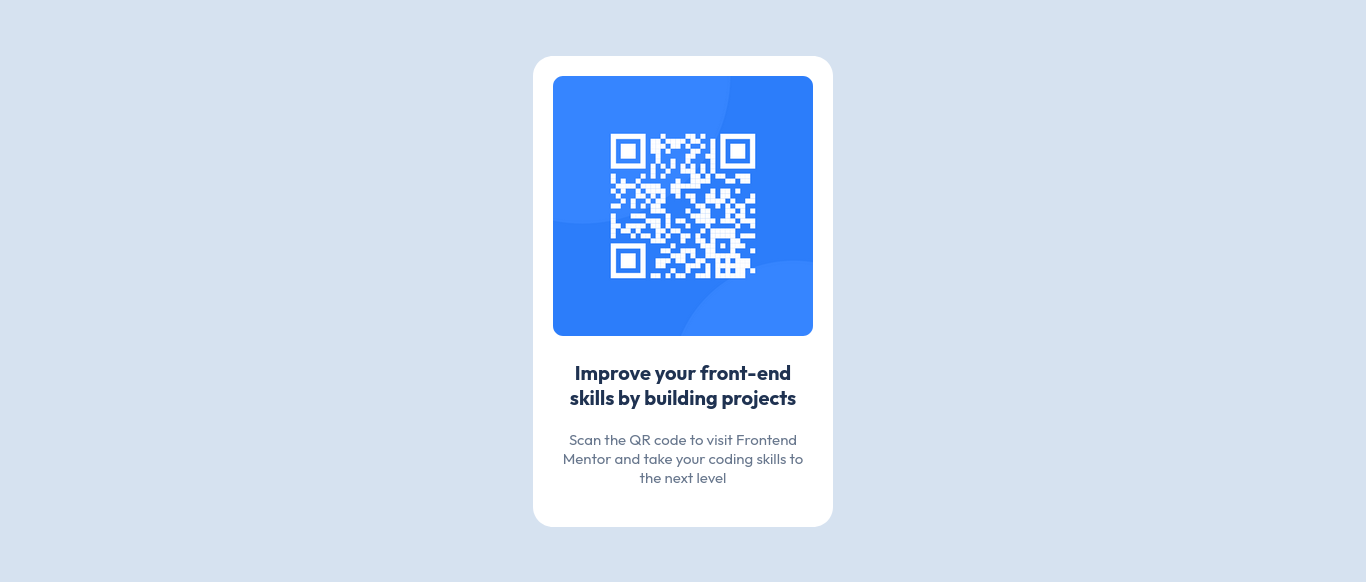
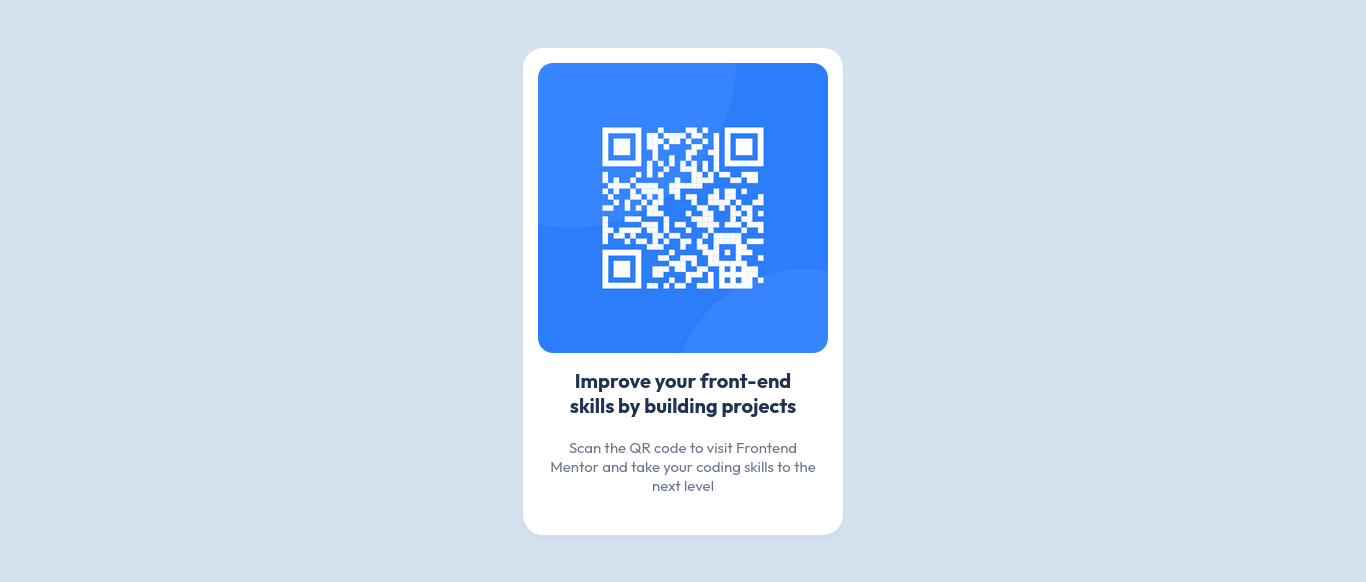
changing readme file, html & css code, adding new screenshot

Changed region(s): [[0.369, 0.0619, 0.6149, 0.9278]]

diff --git a/style.css b/style.css
@@ -1,19 +1,14 @@
 /* Start variables */
 :root{
     /* Colors */
-
 --White: hsl(0, 0%, 100%);
 --Slate-300: hsl(212, 45%, 89%);
 --Slate-500: hsl(216, 15%, 48%);
 --Slate-900: hsl(218, 44%, 22%);
 
     /* Typography */
-
-        /* Body Copy */
-
---ParagraphSize: 15px
+--ParagraphSize: .9375rem
 }
-/* End variables */
 /* Start Global rules */
 * {
     box-sizing: border-box;
@@ -28,30 +23,34 @@ body {
     height: 100vh;
     background-color: var(--Slate-300)
 }
-/* End Global rules */
-main {
+/* Start main */
+.card_container {
+    max-width: 20rem;
     background-color: var(--White);
-    padding: 20px;
-    flex-basis: 300px;
     border-radius: 20px;
     box-shadow: 0px 5px 5px 0px #ccd8e6c6
 }
-main img {
+.card_container .qr_img img {
+    display: block;
     max-width: 100%;
-    border-radius: 10px
+    border-radius: 30px;
+    padding: 15px;
 }
-main .text {
-    text-align: center
+.card_container .card_content {
+    text-align: center;
+    padding: 20px;
+    padding-top: 0
 }
-main .text h1 {
+.card_container .card_content h1 {
     color: var(--Slate-900);
-    font-size: 20px;
+    font-size: 1.25rem;
+    text-wrap: balance;
     font-weight: 700;
-    margin: 20px auto
+    margin-bottom: 1.25rem
 }
-main .text p {
+.card_container .card_content p {
     color: var(--Slate-500);
     font-size: var(--ParagraphSize);
     font-weight: 400;
-    margin-bottom: 20px
+    margin-bottom: 1.25rem
 }

diff --git a/index.html b/index.html
@@ -13,14 +13,17 @@
     </head>
     <body>
         <main>
-            <img src="images/image-qr-code.png" alt="QR code">
-            <div class="text">
-                <h1>Improve your front-end
-                    skills by building projects</h1>
+            <section class="card_container" aria-labelledby="card-heading">
+                <figure class="qr_img">
+                    <img src="images/image-qr-code.png" alt="QR code">
+                </figure>
+            <article class="card_content">
+                <h1 id="card-heading">Improve your front-end skills by building projects</h1>
                 <p>Scan the QR code to visit Frontend
                     Mentor and take your coding skills to
                     the next level</p>
-            </div>
+            </article>
+            </section>
         </main>
     </body>
 </html>

diff --git a/README.md b/README.md
@@ -1,40 +1,103 @@
-# Frontend Mentor - QR code component solution
+# 🌟 QR Code Component - Frontend Mentor Solution 🚀
 
-This is a solution to the [QR code component challenge on Frontend Mentor](https://www.frontendmentor.io/challenges/qr-code-component-iux_sIO_H). Frontend Mentor challenges help you improve your coding skills by building realistic projects. 
+Welcome to my solution for the **QR Code Component Challenge** on [Frontend Mentor](https://www.frontendmentor.io/challenges/qr-code-component-iux_sIO_H)! This project is designed to help you improve your front-end skills by building realistic and responsive components. Let’s dive in! 💻✨
 
-## Table of contents
+---
+
+## 📋 Table of Contents
 
 - [Overview](#overview)
-  - [The challenge](#the-challenge)
+  - [The Challenge](#the-challenge)
   - [Screenshot](#screenshot)
   - [Links](#links)
-- [My process](#my-process)
-  - [Built with](#built-with)
+- [My Process](#my-process)
+  - [Built With](#built-with)
+  - [What I Learned](#what-i-learned)
+  - [Continued Development](#continued-development)
+- [Author](#author)
 
-## Overview
+---
 
-### The challenge
+## 🌟 Overview
 
-Users should be able to:
+### 🎯 The Challenge
 
-- View the optimal layout depending on their device's screen size
-- See hover states for interactive elements
+The goal of this challenge was to build a **QR code component** that is:
+- **Responsive**: Works seamlessly on all screen sizes, from mobile to desktop. 📱💻
 
-### Screenshot
+### 📸 Screenshot
 
-![](./Screenshot.png)
+Here’s a preview of the final result:
 
-### Links
+![Screenshot](./Screenshot.png)
 
-- Solution link: https://www.frontendmentor.io/solutions/qr-code-component-Lma2ugvVpU
-  
-- Live Site URL: https://alaa-mekibes.github.io/qr-code-component-frontend-mentor
+### 🔗 Links
 
-## My process
+- **Live Site URL**: [View Live Demo](https://alaa-mekibes.github.io/qr-code-component-frontend-mentor)
+- **Solution URL**: [Frontend Mentor Solution](https://www.frontendmentor.io/solutions/qr-code-component-Lma2ugvVpU)
 
-### Built with
+---
 
-- Semantic HTML5 markup
-- CSS custom properties
-- Flexbox
+## 🛠 My Process
 
+### 🧰 Built With
+
+- **Semantic HTML5 Markup** 📄
+- **CSS Custom Properties** 🎨
+- **Flexbox** 📏
+- **Mobile-First Workflow** 📱
+- **REM Units** 📐
+
+### 🧠 What I Learned
+
+Through this project, I reinforced my understanding of:
+- **Semantic HTML Elements**: I learned how to use semantic tags like `<section>`, `<article>`, and `<main>` to structure my content meaningfully. This improves accessibility and SEO while making the code easier to read and maintain.
+
+```html
+  <main class="qr-container">
+    <section class="qr-code">
+      <article class="qr-content">
+        <img src="image-qr-code.png" alt="QR Code">
+        <h1>Improve your front-end skills by building projects</h1>
+        <p>Scan the QR code to visit Frontend Mentor and take your coding skills to the next level!</p>
+      </article>
+    </section>
+  </main>
+```
+
+- REM Units: I used rem units for sizing and spacing to ensure a consistent and scalable design. Unlike pixels, rem units are relative to the root font size, making it easier to create responsive layouts.
+
+```css
+
+:root {
+  font-size: 16px; /* Base font size */
+}
+
+.qr-content h1 {
+  font-size: 1.5rem; /* 24px */
+  margin-bottom: 1rem; /* 16px */
+}
+
+.qr-content p {
+  font-size: 1rem; /* 16px */
+  margin-bottom: 1.5rem; /* 24px */
+}
+```
+
+- Responsive Design: I ensured the component looks great on all devices by using a mobile-first approach and media queries.
+
+### 🚀 Continued Development
+
+In future projects, I’d like to focus on:
+
+- CSS Grid: Exploring more advanced layout techniques.
+
+- Accessibility: Ensuring my components are fully accessible to all users.
+
+- Animations: Adding more dynamic and engaging animations.
+
+## ✍ Author
+
+- Frontend Mentor Profile: [@alaa-mekibes](https://www.frontendmentor.io/profile/alaa-mekibes)
+
+Feel free to explore the project and provide feedback! Let’s keep coding and building amazing things together! 💪✨
